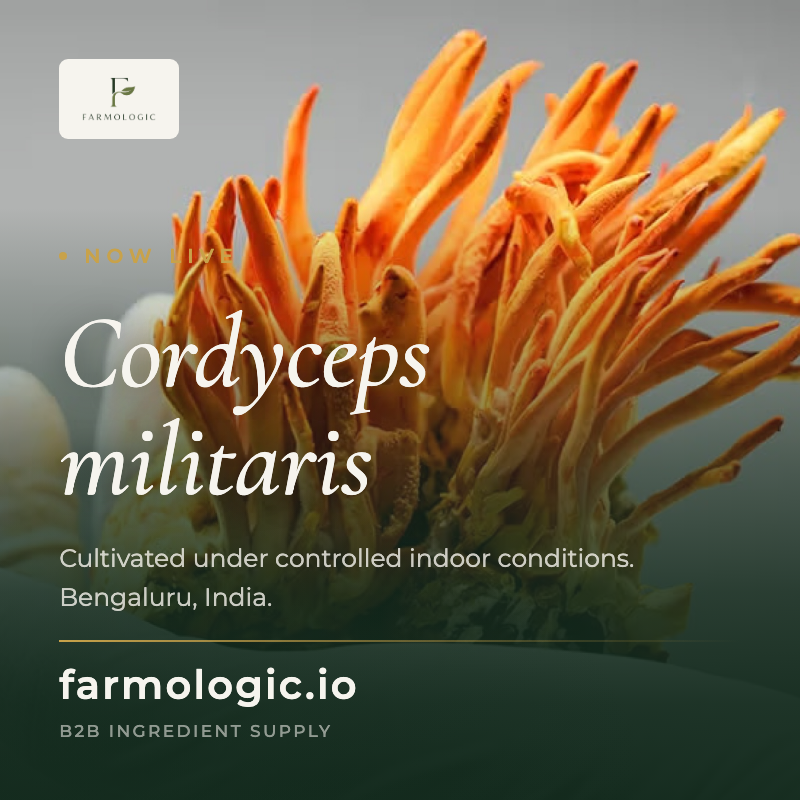
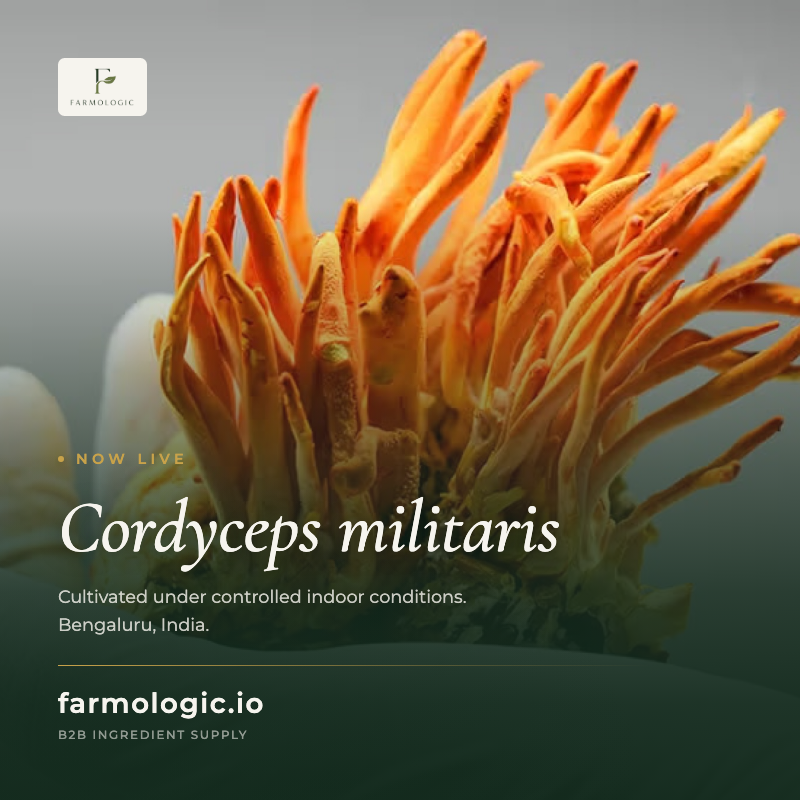
Derive every poster dimension from one scale unit per board
Sizes were set in px per format with ad-hoc overrides on top, so the
proportions drifted between artboards: the logo, the eyebrow and the rule
each had their own idea of how big a 1200x630 was relative to a 1080x1920.

Every dimension is now calc(var(--u) * n), with --u set once per board by
scale_for(). One set of numbers holds its proportions everywhere, and
there are no per-format font sizes left to drift. --u is the width bounded
by the height, softened so the spread between formats is a nudge rather
than a cliff, with a floor so a short landscape board still reads at
thumbnail size.

Tailwind would not have fixed this. Its utilities are fixed px too, so the
same drift would reappear one class at a time.

Fixed while re-reading every render:

- The arrow after "Register interest" was a CSS escape that came out as the
  literal "92". It is a plain character now.
- The hairline on the bone ground faded to grey almost immediately. It
  holds gold for the first third now.
- The species is set larger in the supporting line, 1.34em against the
  surrounding text rather than 1.14em.
- A 1200x630 is too short to split top and bottom, so its stack is centred
  instead of pushed to the corners.
- Stories put their type where Instagram lays its own UI. Both story
  boards now keep the top and bottom 250px clear.

diff --git a/marketing/build_posters.py b/marketing/build_posters.py
@@ -103,7 +103,20 @@ COPY = {
 }
 
 
-def css(fonts, logo):
+def scale_for(w, h):
+    """One number per artboard that every dimension derives from.
+
+    Scaling by width alone makes a short landscape board look shouty and a tall
+    story board look timid, so the base is the width bounded by the height, then
+    softened so the spread between formats is a nudge rather than a cliff.
+    """
+    base = min(w, h * 0.8) / 1080.0
+    # A short landscape board still needs type big enough to read as a link
+    # card at thumbnail size, so the scale has a floor.
+    return round(max(base ** 0.8, 0.62), 4)
+
+
+def css(fonts):
     face = lambda fam, w, st, k: (
         f"@font-face{{font-family:'{fam}';font-weight:{w};font-style:{st};"
         f"font-display:block;src:url({fonts[k]}) format('truetype')}}"
@@ -115,106 +128,102 @@ def css(fonts, logo):
 {face('Montserrat',500,'normal','mont_500')}
 {face('Montserrat',600,'normal','mont_600')}
 
-:root{{--ivory:#F6F4EE;--gold:#C8A24A;--deep:#132A1D;}}
+:root{{--ivory:#F6F4EE;--gold:#C8A24A;--gold-text:#7E611F;--forest:#1E3D2B;--deep:#132A1D}}
 *{{box-sizing:border-box;margin:0;padding:0}}
 
+/* Every size below is calc(var(--u) * n). --u is set per board, so one set of
+   numbers holds its proportions at 1200x630 and at 1080x1920 alike. */
 .board{{position:relative;overflow:hidden;background:#111;isolation:isolate;
-  font-family:'Montserrat',system-ui,sans-serif;color:var(--ivory)}}
+  font-family:'Montserrat',system-ui,sans-serif;color:var(--ivory);
+  --pad:calc(var(--u) * 88)}}
 
-/* the photograph, edge to edge. no panel over it. */
 .board .shot{{position:absolute;inset:0;z-index:0;background-size:cover;
   background-repeat:no-repeat}}
 
-/* just enough shade for type to hold. feathered over half the frame so it
-   reads as depth in the picture rather than a box laid on top of it. */
+/* Enough shade for type to hold, feathered across half the frame so it reads
+   as depth in the picture rather than a panel laid over it. */
 .board .shade{{position:absolute;inset:0;z-index:1;pointer-events:none;
   background:
     radial-gradient(120% 70% at 8% 100%, rgba(19,42,29,.55) 0%, rgba(19,42,29,0) 62%),
     linear-gradient(180deg,
       rgba(19,42,29,0) 0%, rgba(19,42,29,0) 26%,
       rgba(19,42,29,.28) 42%, rgba(19,42,29,.60) 58%,
-      rgba(19,42,29,.84) 74%, rgba(19,42,29,.95) 88%, rgba(19,42,29,.98) 100%);}}
+      rgba(19,42,29,.84) 74%, rgba(19,42,29,.95) 88%, rgba(19,42,29,.98) 100%)}}
 .wide .shade{{background:linear-gradient(100deg,
     rgba(19,42,29,.93) 0%, rgba(19,42,29,.80) 34%,
-    rgba(19,42,29,.30) 60%, rgba(19,42,29,0) 84%);}}
+    rgba(19,42,29,.30) 60%, rgba(19,42,29,0) 84%)}}
 
 .inner{{position:relative;z-index:2;height:100%;display:flex;flex-direction:column;
-  justify-content:space-between;padding:7.4%}}
-.wide .inner{{padding:6% 5.6%;align-items:flex-start}}
-.wide .foot{{max-width:56%}}
+  justify-content:space-between;padding:var(--pad)}}
+.wide .inner{{justify-content:center;gap:calc(var(--u) * 52)}}
+.wide header{{line-height:0}}
 
-.tile{{display:inline-block;background:var(--ivory);border-radius:9px;
-  padding:2.6% 3.4%;line-height:0}}
-.square .tile img{{height:44px}} .portrait .tile img{{height:48px}}
-.story .tile img{{height:56px}}  .wide .tile img{{height:36px}}
-.tile img{{display:block;width:auto}}
+/* Instagram lays its own UI over roughly the top and bottom 250px of a story,
+   so the content is kept inside that. */
+.story .inner{{padding-top:calc(var(--u) * 150);padding-bottom:calc(var(--u) * 250)}}
+
+.tile{{display:inline-block;background:var(--ivory);border-radius:calc(var(--u) * 10);
+  padding:calc(var(--u) * 15) calc(var(--u) * 19);line-height:0}}
+.tile img{{display:block;width:auto;height:calc(var(--u) * 58)}}
 
 .eyebrow{{display:flex;align-items:center;gap:.85em;color:var(--gold);
-  font-weight:600;letter-spacing:.30em;text-transform:uppercase;font-size:20px}}
+  font-weight:600;letter-spacing:.30em;text-transform:uppercase;
+  font-size:calc(var(--u) * 22)}}
 .eyebrow i{{width:.4em;height:.4em;border-radius:50%;background:var(--gold);flex:0 0 auto}}
-.story .eyebrow{{font-size:23px}} .wide .eyebrow{{font-size:16px}}
 
 h1{{font-family:'Cormorant Garamond',Georgia,serif;font-style:italic;font-weight:500;
-  font-size:104px;line-height:1.04;letter-spacing:-.004em;margin-top:.30em;
-  text-shadow:0 2px 30px rgba(9,20,14,.5)}}
-.portrait h1{{font-size:112px}} .story h1{{font-size:120px}} .wide h1{{font-size:76px}}
+  font-size:calc(var(--u) * 112);line-height:1.04;letter-spacing:-.004em;
+  margin-top:.30em;text-shadow:0 2px calc(var(--u) * 30) rgba(9,20,14,.5)}}
 
-.sub{{margin-top:.95em;font-size:25px;line-height:1.55;font-weight:400;
+.sub{{margin-top:.95em;font-size:calc(var(--u) * 27);line-height:1.56;font-weight:400;
   color:rgba(246,244,238,.80)}}
-.story .sub{{font-size:28px}} .wide .sub{{font-size:20px}}
+.sub em{{font-family:'Cormorant Garamond',Georgia,serif;font-style:italic;
+  font-size:1.34em;line-height:1;color:var(--ivory)}}
 
-.hair{{display:block;height:2px;width:100%;margin:1.5em 0 1.1em;
-  background:linear-gradient(90deg,var(--gold) 0%,rgba(200,162,74,.22) 74%,rgba(200,162,74,0) 100%)}}
-.wide .hair{{margin:1.3em 0 .95em}}
+.hair{{display:block;height:max(1px, calc(var(--u) * 2));width:100%;
+  margin:calc(var(--u) * 40) 0 calc(var(--u) * 30);
+  background:linear-gradient(90deg,var(--gold) 0%,rgba(200,162,74,.22) 74%,
+    rgba(200,162,74,0) 100%)}}
 
-.domain{{font-weight:600;font-size:40px;letter-spacing:.055em}}
-.story .domain{{font-size:46px}} .wide .domain{{font-size:31px}}
-.note{{margin-top:.7em;font-size:17px;letter-spacing:.14em;text-transform:uppercase;
-  font-weight:500;color:rgba(246,244,238,.55)}}
-.wide .note{{font-size:14px}}
+.domain{{font-weight:600;font-size:calc(var(--u) * 42);letter-spacing:.055em}}
+.note{{margin-top:calc(var(--u) * 12);font-size:calc(var(--u) * 18);letter-spacing:.14em;
+  text-transform:uppercase;font-weight:500;color:rgba(246,244,238,.55)}}
+
+.square .foot,.portrait .foot{{max-width:calc(var(--u) * 900)}}
+.story .foot{{max-width:calc(var(--u) * 950)}}
+.wide  .foot{{max-width:58%}}
 
 /* ---------------------------------------------------------------------------
-   Studio: no photograph. Bone ground, the logo set directly on it because a
-   light ground needs no tile, and the cordyceps drawn as line art, ghosted
-   back so it reads as a watermark rather than an illustration.
+   Studio: no photograph. Bone ground, the logo set straight on it because a
+   light ground needs no tile, and the cordyceps as line art ghosted back.
 --------------------------------------------------------------------------- */
 .board.studio{{background:
   radial-gradient(120% 100% at 12% 8%, #FBFAF6 0%, #F6F4EE 46%, #EFEDE4 100%);
-  color:#1E3D2B}}
+  color:var(--forest)}}
 .board.studio .motif{{position:absolute;z-index:0;opacity:.17;
   background-repeat:no-repeat;background-size:contain;background-position:bottom right}}
-.square.studio .motif{{right:5%;bottom:30%;width:40%;height:44%}}
+.square.studio   .motif{{right:5%;bottom:30%;width:40%;height:44%}}
 .portrait.studio .motif{{right:5%;bottom:34%;width:42%;height:40%}}
-.story.studio .motif{{right:0;bottom:33%;width:72%;height:28%}}
-.wide.studio .motif{{right:4%;bottom:14%;width:26%;height:70%}}
-
-/* the text column keeps clear of the motif */
-.square.studio .foot,
-.portrait.studio .foot{{max-width:74%}}
-.story.studio .foot{{max-width:88%}}
-.wide.studio .foot{{max-width:64%}}
+.story.studio    .motif{{right:0;bottom:40%;width:88%;height:30%}}
+.wide.studio     .motif{{right:4%;bottom:14%;width:26%;height:70%}}
 
 .studio .tile{{background:none;padding:0;border-radius:0}}
-.square.studio .tile img{{height:56px}} .portrait.studio .tile img{{height:60px}}
-.story.studio .tile img{{height:70px}}  .wide.studio .tile img{{height:46px}}
+.studio .tile img{{height:calc(var(--u) * 66)}}
+.studio .foot{{position:relative;z-index:2}}
 
-/* Brand gold fails contrast on bone, so text uses the site's derived
-   --gold-text; pure gold is kept for rules and the dot, which are not text. */
-.studio .eyebrow{{color:#7E611F}}
+/* Brand gold is 2.19:1 on bone and fails as text, so text here takes the
+   site's derived --gold-text at 5.28:1. Pure gold stays on rules and marks. */
+.studio .eyebrow{{color:var(--gold-text)}}
 .studio .eyebrow i{{background:var(--gold)}}
-.studio h1{{font-style:normal;font-weight:600;color:#1E3D2B;text-shadow:none;
+.studio h1{{font-style:normal;font-weight:600;color:var(--forest);text-shadow:none;
   letter-spacing:-.012em}}
 .studio .sub{{color:rgba(30,61,43,.74)}}
-.studio .sub em{{font-family:'Cormorant Garamond',Georgia,serif;font-style:italic;
-  font-size:1.14em;color:#1E3D2B}}
+.studio .sub em{{color:var(--forest)}}
 .studio .hair{{background:linear-gradient(90deg,var(--gold) 0%,
-  rgba(200,162,74,.30) 70%,rgba(200,162,74,0) 100%)}}
-.studio .domain{{color:#1E3D2B;font-size:30px;letter-spacing:.02em}}
-.square.studio .domain{{font-size:30px}} .portrait.studio .domain{{font-size:32px}}
-.story.studio .domain{{font-size:36px}}  .wide.studio .domain{{font-size:24px}}
-.studio .domain::after{{content:"  →";color:var(--gold)}}
+  var(--gold) 34%,rgba(200,162,74,.45) 76%,rgba(200,162,74,0) 100%)}}
+.studio .domain{{color:var(--forest);font-size:calc(var(--u) * 32);letter-spacing:.02em}}
+.studio .domain::after{{content:"  →";color:var(--gold-text)}}
 .studio .note{{color:rgba(30,61,43,.55)}}
-.studio .foot{{position:relative;z-index:2}}
 """
 
 
@@ -225,7 +234,7 @@ def board_markup(variant, shape, w, h, photo_uri, focal, logo_uri, motif_uri):
     else:
         ground = (f'<div class="shot" style="background-image:url({photo_uri});'
                   f'background-position:{focal}"></div><div class="shade"></div>')
-    return f"""<div class="board {shape} {variant}" style="width:{w}px;height:{h}px">
+    return f"""<div class="board {shape} {variant}" style="width:{w}px;height:{h}px;--u:{scale_for(w, h)}px">
   {ground}
   <div class="inner">
     <header><span class="tile"><img src="{logo_uri}" alt="Farmologic"></span></header>
@@ -245,7 +254,7 @@ def main():
     fonts = {k: data_uri(os.path.join(FONTS, v), "font/ttf") for k, v in FONT_FILES.items()}
     logo = data_uri(os.path.join(IMG, "logo-header.png"), "image/png")
     photos = {}
-    style = css(fonts, logo)
+    style = css(fonts)
 
     shutil.rmtree(BOARD_DIR, ignore_errors=True)
     os.makedirs(BOARD_DIR, exist_ok=True)

diff --git a/marketing/README.md b/marketing/README.md
@@ -19,6 +19,27 @@ that keeps working after launch week.
 | `linkedin-x` | 1200×630 — LinkedIn, X, any link preview |
 | `whatsapp-square` | 800×800 — WhatsApp Business, lighter for messaging |
 
+## How sizing works
+
+Every dimension is `calc(var(--u) * n)`. `--u` is one number per artboard,
+computed by `scale_for()`, so a single set of numbers holds its proportions at
+1200×630 and at 1080×1920 alike. There are no per-format font sizes to drift
+apart. Change `112` on `h1` and every board moves together.
+
+`--u` is the width bounded by the height, softened so the spread between
+formats is a nudge rather than a cliff, with a floor so a short landscape board
+still reads at thumbnail size:
+
+| Board | `--u` |
+| --- | --- |
+| 1080×1080 | 0.837 |
+| 1080×1350 | 1.0 |
+| 1080×1920 | 1.0 |
+| 1200×630 | 0.62 |
+| 800×800 | 0.658 |
+
+Stories keep Instagram's roughly 250px of UI clear at top and bottom.
+
 ## The motif
 
 The cordyceps line art is generated, not drawn by hand: `cordyceps_svg()` in
